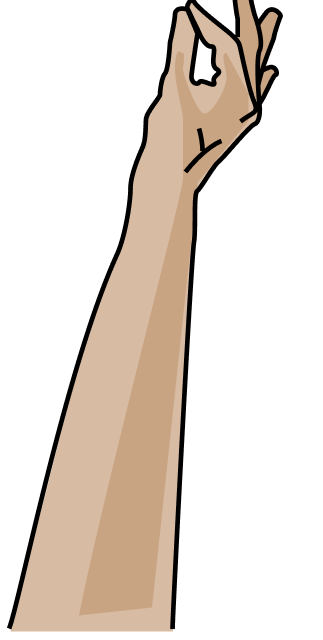
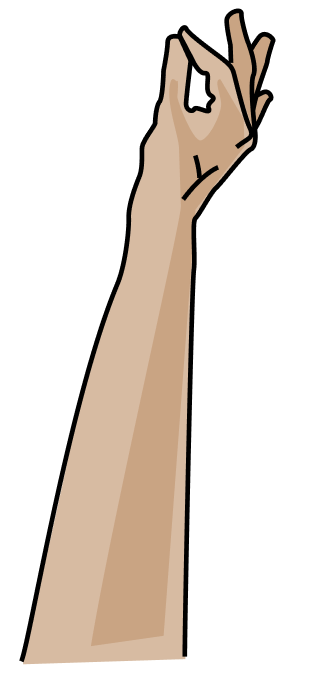
adding drawing on a surface

diff --git a/levels/shoesLevel.py b/levels/shoesLevel.py
@@ -3,7 +3,7 @@ from eventBus import event_bus
 from command import Command
 from foot import Foot
 import pygame
-from pygame import Vector2, Surface
+from pygame import Vector2, Surface, Rect
 import os
 
 class ShoesLevel(Level):
@@ -16,7 +16,18 @@ class ShoesLevel(Level):
             print("Foot is not valid for level: ", self.name)
             return
         self.foot = foot
+        if not os.path.isfile(self.foot.footPath):
+            print(f"Image not found: {self.foot.footPath}")
+            return
+        self.footTexture = pygame.image.load(self.foot.footPath)
+        self.drawnLacesSurface = Surface((1024, 640), pygame.SRCALPHA)
+        self.isMousePressed = False
+        self.lastMousePos: tuple[int,int] = None
+        self.mousePos: tuple[int,int] = None
+        
         event_bus.subscribe('mouse_moved', self.onMouseMoved)
+        event_bus.subscribe('mouse_down', self.onMouseDown)
+        event_bus.subscribe('mouse_up', self.onMouseUp)
         event_bus.subscribe('game_update', self.onUpdate)
         
         return super().loadLevel()
@@ -27,19 +38,53 @@ class ShoesLevel(Level):
         return super().unloadLevel()
 
     def onUpdate(self):
-        command = ShowFootCommand(self.foot, Vector2(1024/2, 640/2))
-        event_bus.publish("queue_command", command)
+        event_bus.publish("add_surface_to_render", self.footTexture, [1024/2, 640/2], 1)
         if not self.foot.hasLaces:
             return
+        if self.isMousePressed:
+            rect = Rect(self.mousePos[0], self.mousePos[1], 10, 10)
+            pygame.draw.line(self.drawnLacesSurface, (0, 0, 255), self.lastMousePos, self.mousePos, 10)
         
         super().update()
 
     def onMouseMoved(self, newPos):
-        #print(f"Mouse moved in shoes level: {newPos}")
+        if self.mousePos is not None:
+            self.lastMousePos = self.mousePos
+        self.mousePos = newPos
+        event_bus.publish("add_surface_to_render", self.drawnLacesSurface, [1024/2,640/2], 2)
         command = ShoesMouseMovedCommand(newPos, self.armTexture)
         event_bus.publish("queue_command", command)
+    
+    def onMouseDown(self, newPos):
+        self.isMousePressed = True
+        
+    def onMouseUp(self):
+        self.isMousePressed = False
+        pass
         
         
+class CompleteLaces(Command):
+    def __init__(self, lacesTexture: Surface):
+        self.lacesTexture = lacesTexture
+    
+    def run(self):
+        event_bus.publish("add_surface_to_render", self.armTexture, [self.pos[0], self.pos[1]], 2)
+        pass
+        
+class DrawLacesCommand(Command):
+    def __init__(self, newPos, surface: Surface):
+        self.pos = Vector2(newPos)
+        self.surface = surface
+    
+    def run(self):
+        # texture = Surface((10, 10))
+        # texture.fill((0, 0, 255))
+        # rect = Rect(self.pos[0], self.pos[1], 10, 10)
+        # pygame.draw.rect(self.surface,(0,0,255), rect)
+        # self.surface.(self.rect.surface, self.rect.position)
+        event_bus.publish("add_surface_to_render", self.surface, [1024/2,640/2], 2)
+        pass
+    
 class ShoesMouseMovedCommand(Command):
     def __init__(self, newPos, armTexture: Surface):
         self.pos = Vector2(newPos)
@@ -50,15 +95,3 @@ class ShoesMouseMovedCommand(Command):
         event_bus.publish("add_surface_to_render", self.armTexture, [self.pos[0], self.pos[1]], 2)
         pass
     
-class ShowFootCommand(Command):
-    def __init__(self, foot: Foot, position):
-        self.foot = foot
-        self.position = position
-    
-    def run(self):
-        if not os.path.isfile(self.foot.footPath):
-            print(f"Image not found: {self.foot.footPath}")
-            return
-        texture = pygame.image.load(self.foot.footPath)
-        event_bus.publish("add_surface_to_render", texture, [self.position.x, self.position.y], 1)
-        

diff --git a/game.py b/game.py
@@ -82,11 +82,15 @@ class Game():
         self.commands.append(newCommand)
 
     def processInput(self):
+        mousePos = pygame.mouse.get_pos()
         for event in pygame.event.get():
             if event.type == pygame.QUIT:
                 self.running = False
+            elif event.type == pygame.MOUSEBUTTONDOWN:
+                event_bus.publish('mouse_down', mousePos)
+            elif event.type == pygame.MOUSEBUTTONUP:
+                event_bus.publish('mouse_up')
         
-        mousePos = pygame.mouse.get_pos()
         event_bus.publish('mouse_moved', mousePos)
 
     def update(self):
